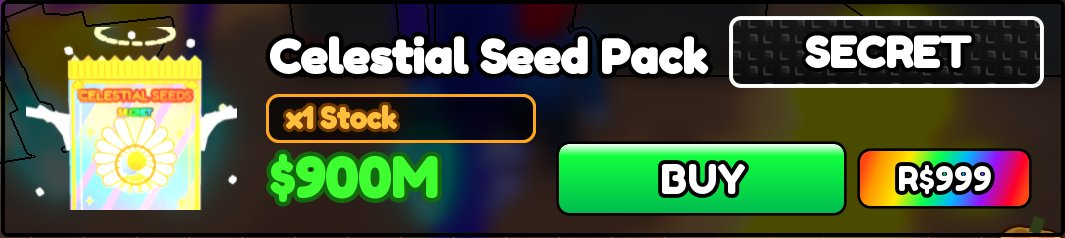
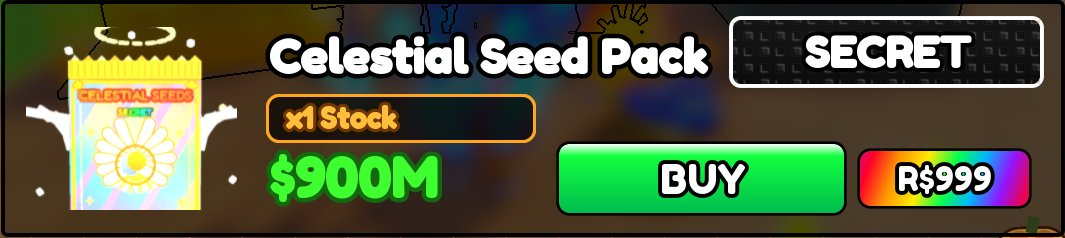
Mise a jour des stats

diff --git a/historique.js b/historique.js
@@ -1,4 +1,4 @@
-window.HISTORY = [["2026-10-14T00:55:39", "debut", "", ""], ["2026-10-14T01:25:29", "stock", "seed", "Spooky Seed Pack"], ["2026-10-14T01:30:10", "stock", "seed", "Celestial Seed Pack"], ["2026-10-14T02:05:31", "stock", "seed", "Spooky Seed Pack"], ["2026-10-14T02:40:12", "stock", "seed", "Celestial Seed Pack"], ["2026-10-14T02:40:12", "fin", "", ""], ["2026-10-14T06:29:55", "debut", "", ""], ["2026-10-14T07:09:20", "stock", "eggs", "Inferno Egg"], ["2026-10-14T07:09:22", "stock", "eggs", "Solar Egg"], ["2026-10-14T08:30:22", "stock", "seed", "Celestial Seed Pack"], ["2026-10-14T09:46:36", "fin", "", ""], ["2026-10-14T10:49:48", "debut", "", ""], ["2026-10-14T11:17:42", "fin", "", ""], ["2026-10-14T11:25:19", "debut", "", ""], ["2026-10-14T11:56:44", "fin", "", ""], ["2026-10-14T12:49:54", "debut", "", ""], ["2026-10-14T14:45:01", "stock", "seed", "Celestial Seed Pack"], ["2026-10-14T16:45:05", "stock", "seed", "Spooky Seed Pack"], ["2026-10-14T18:32:27", "stock", "seed", "Celestial Seed Pack"], ["2026-10-14T18:35:08", "stock", "seed", "Mutant Seed Pack"], ["2026-10-14T19:00:28", "stock", "seed", "Void Seed Pack"], ["2026-10-14T19:09:54", "fin", "", ""], ["2026-10-14T19:15:13", "debut", "", ""], ["2026-10-14T19:15:38", "stock", "seed", "Spooky Seed Pack"], ["2026-10-14T19:19:49", "fin", "", ""], ["2026-10-14T19:21:52", "debut", "", ""], ["2026-10-14T19:35:38", "stock", "seed", "Mutant Seed Pack"], ["2026-10-14T20:10:19", "stock", "seed", "Mutant Seed Pack"], ["2026-10-14T20:28:39", "stock", "eggs", "Inferno Egg"], ["2026-10-14T20:45:00", "stock", "seed", "Mutant Seed Pack"], ["2026-10-14T20:45:02", "stock", "seed", "Celestial Seed Pack"], ["2026-10-14T20:55:00", "stock", "seed", "Mutant Seed Pack"], ["2026-10-14T21:35:29", "fin", "", ""], ["2026-10-14T23:15:27", "debut", "", ""], ["2026-10-14T23:25:12", "stock", "seed", "Celestial Seed Pack"], ["2026-10-14T23:35:12", "stock", "seed", "Spooky Seed Pack"], ["2026-10-14T23:45:13", "stock", "seed", "Celestial Seed Pack"], ["2026-10-14T23:55:13", "stock", "seed", "Void Seed Pack"], ["2026-10-15T01:07:19", "fin", "", ""], ["2026-10-15T01:20:12", "debut", "", ""], ["2026-10-15T01:20:28", "fin", "", ""], ["2026-10-15T01:20:33", "debut", "", ""], ["2026-10-15T01:25:03", "stock", "seed", "Mutant Seed Pack"], ["2026-10-15T02:15:00", "stock", "seed", "Spooky Seed Pack"], ["2026-10-15T02:22:36", "stock", "eggs", "Inferno Egg"], ["2026-10-15T02:22:56", "stock", "eggs", "Inferno Egg"], ["2026-10-15T02:23:16", "stock", "eggs", "Inferno Egg"], ["2026-10-15T02:23:36", "stock", "eggs", "Inferno Egg"], ["2026-10-15T02:27:40", "fin", "", ""], ["2026-10-15T02:28:43", "debut", "", ""], ["2026-10-15T02:32:00", "fin", "", ""], ["2026-10-15T02:35:35", "debut", "", ""], ["2026-10-15T02:45:20", "stock", "seed", "Celestial Seed Pack"], ["2026-10-15T02:45:40", "stock", "eggs", "Solar Egg"], ["2026-10-15T02:50:00", "stock", "seed", "Mutant Seed Pack"], ["2026-10-15T05:20:04", "stock", "seed", "Spooky Seed Pack"], ["2026-10-15T05:25:24", "stock", "seed", "Void Seed Pack"], ["2026-10-15T05:55:25", "stock", "seed", "Mutant Seed Pack"], ["2026-10-15T07:15:27", "stock", "seed", "Celestial Seed Pack"], ["2026-10-15T07:30:07", "stock", "seed", "Celestial Seed Pack"], ["2026-10-15T07:50:08", "stock", "seed", "Mutant Seed Pack"], ["2026-10-15T08:04:28", "stock", "eggs", "Sealed Eye Egg"], ["2026-10-15T08:45:29", "stock", "seed", "Celestial Seed Pack"], ["2026-10-15T09:50:11", "stock", "seed", "Mutant Seed Pack"], ["2026-10-15T09:50:14", "stock", "seed", "Celestial Seed Pack"], ["2026-10-15T10:30:12", "stock", "seed", "Mutant Seed Pack"], ["2026-10-15T11:03:05", "fin", "", ""], ["2026-10-15T11:13:30", "debut", "", ""], ["2026-10-15T11:17:01", "fin", "", ""], ["2026-10-15T12:26:22", "debut", "", ""], ["2026-10-15T12:35:27", "stock", "seed", "Mutant Seed Pack"], ["2026-10-15T13:00:07", "stock", "seed", "Void Seed Pack"], ["2026-10-15T13:01:59", "fin", "", ""], ["2026-10-15T13:03:01", "debut", "", ""], ["2026-10-15T13:05:26", "stock", "seed", "Celestial Seed Pack"], ["2026-10-15T13:10:06", "stock", "seed", "Mutant Seed Pack"], ["2026-10-15T13:10:43", "fin", "", ""], ["2026-10-15T13:11:47", "debut", "", ""], ["2026-10-15T14:30:14", "stock", "seed", "Spooky Seed Pack"], ["2026-10-15T14:40:14", "stock", "seed", "Mutant Seed Pack"], ["2026-10-15T16:37:57", "stock", "eggs", "Inferno Egg"], ["2026-10-15T16:50:18", "stock", "seed", "Spooky Seed Pack"], ["2026-10-15T17:15:38", "stock", "seed", "Void Seed Pack"], ["2026-10-15T18:45:01", "stock", "seed", "Spooky Seed Pack"], ["2026-10-15T19:15:02", "stock", "seed", "Mutant Seed Pack"], ["2026-10-15T20:45:00", "stock", "seed", "Celestial Seed Pack"], ["2026-10-15T21:27:32", "fin", "", ""], ["2026-10-15T21:33:02", "debut", "", ""], ["2026-10-15T23:10:29", "fin", "", ""], ["2026-10-16T00:20:07", "debut", "", ""], ["2026-10-16T00:52:33", "stock", "seed", "Mutant Seed Pack"], ["2026-10-16T01:20:34", "stock", "seed", "Mutant Seed Pack"], ["2026-10-16T01:20:34", "stock", "seed", "Celestial Seed Pack"], ["2026-10-16T02:00:35", "stock", "seed", "Spooky Seed Pack"], ["2026-10-16T02:40:36", "stock", "seed", "Spooky Seed Pack"], ["2026-10-16T02:45:16", "stock", "seed", "Spooky Seed Pack"], ["2026-10-16T03:55:17", "stock", "seed", "Mutant Seed Pack"], ["2026-10-16T04:10:38", "stock", "seed", "Mutant Seed Pack"], ["2026-10-16T05:50:00", "stock", "seed", "Spooky Seed Pack"], ["2026-10-16T06:35:21", "stock", "seed", "Spooky Seed Pack"], ["2026-10-16T06:40:01", "stock", "seed", "Celestial Seed Pack"], ["2026-10-16T06:50:01", "stock", "seed", "Void Seed Pack"], ["2026-10-16T07:10:02", "stock", "seed", "Mutant Seed Pack"], ["2026-10-16T08:32:47", "fin", "", ""], ["2026-10-16T08:48:47", "debut", "", ""], ["2026-10-16T08:50:31", "stock", "seed", "Void Seed Pack"], ["2026-10-16T09:00:32", "stock", "seed", "Mutant Seed Pack"], ["2026-10-16T09:24:32", "fin", "", ""], ["2026-10-16T09:25:26", "debut", "", ""], ["2026-10-16T09:45:11", "stock", "seed", "Void Seed Pack"], ["2026-10-16T10:20:32", "stock", "seed", "Void Seed Pack"], ["2026-10-16T11:10:33", "stock", "seed", "Spooky Seed Pack"], ["2026-10-16T11:28:53", "stock", "eggs", "Solar Egg"], ["2026-10-16T12:10:34", "stock", "seed", "Spooky Seed Pack"], ["2026-10-16T13:03:50", "fin", "", ""], ["2026-10-16T13:08:05", "debut", "", ""], ["2026-10-16T13:15:29", "stock", "eggs", "Solar Egg"], ["2026-10-16T14:37:31", "stock", "eggs", "Inferno Egg"], ["2026-10-16T15:07:31", "fin", "", ""], ["2026-10-16T15:12:42", "debut", "", ""], ["2026-10-16T15:35:07", "stock", "seed", "Celestial Seed Pack"], ["2026-10-16T16:00:28", "stock", "seed", "Mutant Seed Pack"], ["2026-10-16T16:20:28", "stock", "seed", "Celestial Seed Pack"], ["2026-10-16T17:55:11", "stock", "seed", "Celestial Seed Pack"], ["2026-10-16T19:10:33", "stock", "seed", "Void Seed Pack"], ["2026-10-16T19:23:33", "stock", "eggs", "Inferno Egg"], ["2026-10-16T19:26:13", "stock", "eggs", "Sealed Eye Egg"], ["2026-10-16T19:30:08", "fin", "", ""], ["2026-10-16T19:31:11", "debut", "", ""], ["2026-10-16T19:40:16", "stock", "seed", "Mutant Seed Pack"], ["2026-10-16T21:02:37", "fin", "", ""], ["2026-10-16T23:01:21", "debut", "", ""], ["2026-10-16T23:01:30", "fin", "", ""], ["2026-10-16T23:03:40", "debut", "", ""], ["2026-10-16T23:03:43", "fin", "", ""], ["2026-10-16T23:06:38", "debut", "", ""], ["2026-10-16T23:06:41", "fin", "", ""], ["2026-10-16T23:09:21", "debut", "", ""], ["2026-10-16T23:09:29", "fin", "", ""], ["2026-10-16T23:15:48", "debut", "", ""], ["2026-10-17T00:00:14", "stock", "seed", "Spooky Seed Pack"], ["2026-10-17T00:21:33", "fin", "", ""], ["2026-10-17T00:35:25", "debut", "", ""], ["2026-10-17T00:35:49", "stock", "seed", "Spooky Seed Pack"], ["2026-10-17T00:35:55", "fin", "", ""], ["2026-10-17T00:55:32", "debut", "", ""], ["2026-10-17T00:55:59", "stock", "seed", "Celestial Seed Pack"], ["2026-10-17T00:56:02", "fin", "", ""], ["2026-10-17T01:10:53", "debut", "", ""], ["2026-10-17T01:10:58", "stock", "eggs", "Sealed Eye Egg"], ["2026-10-17T01:11:17", "stock", "seed", "Spooky Seed Pack"], ["2026-10-17T01:11:23", "fin", "", ""], ["2026-10-17T01:50:53", "debut", "", ""], ["2026-10-17T02:00:38", "stock", "seed", "Celestial Seed Pack"], ["2026-10-17T02:32:19", "stock", "eggs", "Inferno Egg"], ["2026-10-17T03:10:00", "stock", "seed", "Void Seed Pack"], ["2026-10-17T05:40:03", "stock", "seed", "Spooky Seed Pack"], ["2026-10-17T05:55:24", "stock", "seed", "Spooky Seed Pack"], ["2026-10-17T06:07:04", "stock", "eggs", "Inferno Egg"], ["2026-10-17T06:07:04", "fin", "", ""], ["2026-10-17T10:22:57", "fin", "", ""], ["2026-10-17T10:23:21", "debut", "", ""], ["2026-10-17T10:25:01", "fin", "", ""], ["2026-10-17T10:27:32", "debut", "", ""], ["2026-10-17T10:30:37", "stock", "seed", "Celestial Seed Pack"], ["2026-10-17T11:18:40", "fin", "", ""], ["2026-10-17T11:51:57", "debut", "", ""]];
+window.HISTORY = [["2026-10-14T00:55:39", "debut", "", ""], ["2026-10-14T01:25:29", "stock", "seed", "Spooky Seed Pack"], ["2026-10-14T01:30:10", "stock", "seed", "Celestial Seed Pack"], ["2026-10-14T02:05:31", "stock", "seed", "Spooky Seed Pack"], ["2026-10-14T02:40:12", "stock", "seed", "Celestial Seed Pack"], ["2026-10-14T02:40:12", "fin", "", ""], ["2026-10-14T06:29:55", "debut", "", ""], ["2026-10-14T07:09:20", "stock", "eggs", "Inferno Egg"], ["2026-10-14T07:09:22", "stock", "eggs", "Solar Egg"], ["2026-10-14T08:30:22", "stock", "seed", "Celestial Seed Pack"], ["2026-10-14T09:46:36", "fin", "", ""], ["2026-10-14T10:49:48", "debut", "", ""], ["2026-10-14T11:17:42", "fin", "", ""], ["2026-10-14T11:25:19", "debut", "", ""], ["2026-10-14T11:56:44", "fin", "", ""], ["2026-10-14T12:49:54", "debut", "", ""], ["2026-10-14T14:45:01", "stock", "seed", "Celestial Seed Pack"], ["2026-10-14T16:45:05", "stock", "seed", "Spooky Seed Pack"], ["2026-10-14T18:32:27", "stock", "seed", "Celestial Seed Pack"], ["2026-10-14T18:35:08", "stock", "seed", "Mutant Seed Pack"], ["2026-10-14T19:00:28", "stock", "seed", "Void Seed Pack"], ["2026-10-14T19:09:54", "fin", "", ""], ["2026-10-14T19:15:13", "debut", "", ""], ["2026-10-14T19:15:38", "stock", "seed", "Spooky Seed Pack"], ["2026-10-14T19:19:49", "fin", "", ""], ["2026-10-14T19:21:52", "debut", "", ""], ["2026-10-14T19:35:38", "stock", "seed", "Mutant Seed Pack"], ["2026-10-14T20:10:19", "stock", "seed", "Mutant Seed Pack"], ["2026-10-14T20:28:39", "stock", "eggs", "Inferno Egg"], ["2026-10-14T20:45:00", "stock", "seed", "Mutant Seed Pack"], ["2026-10-14T20:45:02", "stock", "seed", "Celestial Seed Pack"], ["2026-10-14T20:55:00", "stock", "seed", "Mutant Seed Pack"], ["2026-10-14T21:35:29", "fin", "", ""], ["2026-10-14T23:15:27", "debut", "", ""], ["2026-10-14T23:25:12", "stock", "seed", "Celestial Seed Pack"], ["2026-10-14T23:35:12", "stock", "seed", "Spooky Seed Pack"], ["2026-10-14T23:45:13", "stock", "seed", "Celestial Seed Pack"], ["2026-10-14T23:55:13", "stock", "seed", "Void Seed Pack"], ["2026-10-15T01:07:19", "fin", "", ""], ["2026-10-15T01:20:12", "debut", "", ""], ["2026-10-15T01:20:28", "fin", "", ""], ["2026-10-15T01:20:33", "debut", "", ""], ["2026-10-15T01:25:03", "stock", "seed", "Mutant Seed Pack"], ["2026-10-15T02:15:00", "stock", "seed", "Spooky Seed Pack"], ["2026-10-15T02:22:36", "stock", "eggs", "Inferno Egg"], ["2026-10-15T02:22:56", "stock", "eggs", "Inferno Egg"], ["2026-10-15T02:23:16", "stock", "eggs", "Inferno Egg"], ["2026-10-15T02:23:36", "stock", "eggs", "Inferno Egg"], ["2026-10-15T02:27:40", "fin", "", ""], ["2026-10-15T02:28:43", "debut", "", ""], ["2026-10-15T02:32:00", "fin", "", ""], ["2026-10-15T02:35:35", "debut", "", ""], ["2026-10-15T02:45:20", "stock", "seed", "Celestial Seed Pack"], ["2026-10-15T02:45:40", "stock", "eggs", "Solar Egg"], ["2026-10-15T02:50:00", "stock", "seed", "Mutant Seed Pack"], ["2026-10-15T05:20:04", "stock", "seed", "Spooky Seed Pack"], ["2026-10-15T05:25:24", "stock", "seed", "Void Seed Pack"], ["2026-10-15T05:55:25", "stock", "seed", "Mutant Seed Pack"], ["2026-10-15T07:15:27", "stock", "seed", "Celestial Seed Pack"], ["2026-10-15T07:30:07", "stock", "seed", "Celestial Seed Pack"], ["2026-10-15T07:50:08", "stock", "seed", "Mutant Seed Pack"], ["2026-10-15T08:04:28", "stock", "eggs", "Sealed Eye Egg"], ["2026-10-15T08:45:29", "stock", "seed", "Celestial Seed Pack"], ["2026-10-15T09:50:11", "stock", "seed", "Mutant Seed Pack"], ["2026-10-15T09:50:14", "stock", "seed", "Celestial Seed Pack"], ["2026-10-15T10:30:12", "stock", "seed", "Mutant Seed Pack"], ["2026-10-15T11:03:05", "fin", "", ""], ["2026-10-15T11:13:30", "debut", "", ""], ["2026-10-15T11:17:01", "fin", "", ""], ["2026-10-15T12:26:22", "debut", "", ""], ["2026-10-15T12:35:27", "stock", "seed", "Mutant Seed Pack"], ["2026-10-15T13:00:07", "stock", "seed", "Void Seed Pack"], ["2026-10-15T13:01:59", "fin", "", ""], ["2026-10-15T13:03:01", "debut", "", ""], ["2026-10-15T13:05:26", "stock", "seed", "Celestial Seed Pack"], ["2026-10-15T13:10:06", "stock", "seed", "Mutant Seed Pack"], ["2026-10-15T13:10:43", "fin", "", ""], ["2026-10-15T13:11:47", "debut", "", ""], ["2026-10-15T14:30:14", "stock", "seed", "Spooky Seed Pack"], ["2026-10-15T14:40:14", "stock", "seed", "Mutant Seed Pack"], ["2026-10-15T16:37:57", "stock", "eggs", "Inferno Egg"], ["2026-10-15T16:50:18", "stock", "seed", "Spooky Seed Pack"], ["2026-10-15T17:15:38", "stock", "seed", "Void Seed Pack"], ["2026-10-15T18:45:01", "stock", "seed", "Spooky Seed Pack"], ["2026-10-15T19:15:02", "stock", "seed", "Mutant Seed Pack"], ["2026-10-15T20:45:00", "stock", "seed", "Celestial Seed Pack"], ["2026-10-15T21:27:32", "fin", "", ""], ["2026-10-15T21:33:02", "debut", "", ""], ["2026-10-15T23:10:29", "fin", "", ""], ["2026-10-16T00:20:07", "debut", "", ""], ["2026-10-16T00:52:33", "stock", "seed", "Mutant Seed Pack"], ["2026-10-16T01:20:34", "stock", "seed", "Mutant Seed Pack"], ["2026-10-16T01:20:34", "stock", "seed", "Celestial Seed Pack"], ["2026-10-16T02:00:35", "stock", "seed", "Spooky Seed Pack"], ["2026-10-16T02:40:36", "stock", "seed", "Spooky Seed Pack"], ["2026-10-16T02:45:16", "stock", "seed", "Spooky Seed Pack"], ["2026-10-16T03:55:17", "stock", "seed", "Mutant Seed Pack"], ["2026-10-16T04:10:38", "stock", "seed", "Mutant Seed Pack"], ["2026-10-16T05:50:00", "stock", "seed", "Spooky Seed Pack"], ["2026-10-16T06:35:21", "stock", "seed", "Spooky Seed Pack"], ["2026-10-16T06:40:01", "stock", "seed", "Celestial Seed Pack"], ["2026-10-16T06:50:01", "stock", "seed", "Void Seed Pack"], ["2026-10-16T07:10:02", "stock", "seed", "Mutant Seed Pack"], ["2026-10-16T08:32:47", "fin", "", ""], ["2026-10-16T08:48:47", "debut", "", ""], ["2026-10-16T08:50:31", "stock", "seed", "Void Seed Pack"], ["2026-10-16T09:00:32", "stock", "seed", "Mutant Seed Pack"], ["2026-10-16T09:24:32", "fin", "", ""], ["2026-10-16T09:25:26", "debut", "", ""], ["2026-10-16T09:45:11", "stock", "seed", "Void Seed Pack"], ["2026-10-16T10:20:32", "stock", "seed", "Void Seed Pack"], ["2026-10-16T11:10:33", "stock", "seed", "Spooky Seed Pack"], ["2026-10-16T11:28:53", "stock", "eggs", "Solar Egg"], ["2026-10-16T12:10:34", "stock", "seed", "Spooky Seed Pack"], ["2026-10-16T13:03:50", "fin", "", ""], ["2026-10-16T13:08:05", "debut", "", ""], ["2026-10-16T13:15:29", "stock", "eggs", "Solar Egg"], ["2026-10-16T14:37:31", "stock", "eggs", "Inferno Egg"], ["2026-10-16T15:07:31", "fin", "", ""], ["2026-10-16T15:12:42", "debut", "", ""], ["2026-10-16T15:35:07", "stock", "seed", "Celestial Seed Pack"], ["2026-10-16T16:00:28", "stock", "seed", "Mutant Seed Pack"], ["2026-10-16T16:20:28", "stock", "seed", "Celestial Seed Pack"], ["2026-10-16T17:55:11", "stock", "seed", "Celestial Seed Pack"], ["2026-10-16T19:10:33", "stock", "seed", "Void Seed Pack"], ["2026-10-16T19:23:33", "stock", "eggs", "Inferno Egg"], ["2026-10-16T19:26:13", "stock", "eggs", "Sealed Eye Egg"], ["2026-10-16T19:30:08", "fin", "", ""], ["2026-10-16T19:31:11", "debut", "", ""], ["2026-10-16T19:40:16", "stock", "seed", "Mutant Seed Pack"], ["2026-10-16T21:02:37", "fin", "", ""], ["2026-10-16T23:01:21", "debut", "", ""], ["2026-10-16T23:01:30", "fin", "", ""], ["2026-10-16T23:03:40", "debut", "", ""], ["2026-10-16T23:03:43", "fin", "", ""], ["2026-10-16T23:06:38", "debut", "", ""], ["2026-10-16T23:06:41", "fin", "", ""], ["2026-10-16T23:09:21", "debut", "", ""], ["2026-10-16T23:09:29", "fin", "", ""], ["2026-10-16T23:15:48", "debut", "", ""], ["2026-10-17T00:00:14", "stock", "seed", "Spooky Seed Pack"], ["2026-10-17T00:21:33", "fin", "", ""], ["2026-10-17T00:35:25", "debut", "", ""], ["2026-10-17T00:35:49", "stock", "seed", "Spooky Seed Pack"], ["2026-10-17T00:35:55", "fin", "", ""], ["2026-10-17T00:55:32", "debut", "", ""], ["2026-10-17T00:55:59", "stock", "seed", "Celestial Seed Pack"], ["2026-10-17T00:56:02", "fin", "", ""], ["2026-10-17T01:10:53", "debut", "", ""], ["2026-10-17T01:10:58", "stock", "eggs", "Sealed Eye Egg"], ["2026-10-17T01:11:17", "stock", "seed", "Spooky Seed Pack"], ["2026-10-17T01:11:23", "fin", "", ""], ["2026-10-17T01:50:53", "debut", "", ""], ["2026-10-17T02:00:38", "stock", "seed", "Celestial Seed Pack"], ["2026-10-17T02:32:19", "stock", "eggs", "Inferno Egg"], ["2026-10-17T03:10:00", "stock", "seed", "Void Seed Pack"], ["2026-10-17T05:40:03", "stock", "seed", "Spooky Seed Pack"], ["2026-10-17T05:55:24", "stock", "seed", "Spooky Seed Pack"], ["2026-10-17T06:07:04", "stock", "eggs", "Inferno Egg"], ["2026-10-17T06:07:04", "fin", "", ""], ["2026-10-17T10:22:57", "fin", "", ""], ["2026-10-17T10:23:21", "debut", "", ""], ["2026-10-17T10:25:01", "fin", "", ""], ["2026-10-17T10:27:32", "debut", "", ""], ["2026-10-17T10:30:37", "stock", "seed", "Celestial Seed Pack"], ["2026-10-17T11:18:40", "fin", "", ""], ["2026-10-17T11:51:57", "debut", "", ""], ["2026-10-17T12:00:21", "stock", "seed", "Celestial Seed Pack"]];
 window.ITEMS = [{"shop": "eggs", "name": "Inferno Egg"}, {"shop": "eggs", "name": "Solar Egg"}, {"shop": "eggs", "name": "Sealed Eye Egg"}, {"shop": "eggs", "name": "Abyss Egg"}, {"shop": "seed", "name": "Void Seed Pack"}, {"shop": "seed", "name": "Celestial Seed Pack"}, {"shop": "seed", "name": "Spooky Seed Pack"}, {"shop": "seed", "name": "Mutant Seed Pack"}];
-window.GENERATED = "2026-10-17T11:52:00";
+window.GENERATED = "2026-10-17T12:00:24";
 window.BOT = {"actif": true};

diff --git a/articles.js b/articles.js
@@ -1,1 +1,1 @@
-window.ARTICLE_IMAGES = {"Inferno Egg": "articles/inferno-egg.jpg?v=1792210024", "Solar Egg": "articles/solar-egg.jpg?v=1792192117", "Sealed Eye Egg": "articles/sealed-eye-egg.jpg?v=1792192258", "Abyss Egg": "articles/abyss-egg.jpg?v=1792192117", "Void Seed Pack": "articles/void-seed-pack.jpg?v=1792199400", "Celestial Seed Pack": "articles/celestial-seed-pack.jpg?v=1792225837", "Spooky Seed Pack": "articles/spooky-seed-pack.jpg?v=1792209324"};
+window.ARTICLE_IMAGES = {"Inferno Egg": "articles/inferno-egg.jpg?v=1792210024", "Solar Egg": "articles/solar-egg.jpg?v=1792192117", "Sealed Eye Egg": "articles/sealed-eye-egg.jpg?v=1792192258", "Abyss Egg": "articles/abyss-egg.jpg?v=1792192117", "Void Seed Pack": "articles/void-seed-pack.jpg?v=1792199400", "Celestial Seed Pack": "articles/celestial-seed-pack.jpg?v=1792231221", "Spooky Seed Pack": "articles/spooky-seed-pack.jpg?v=1792209324"};
